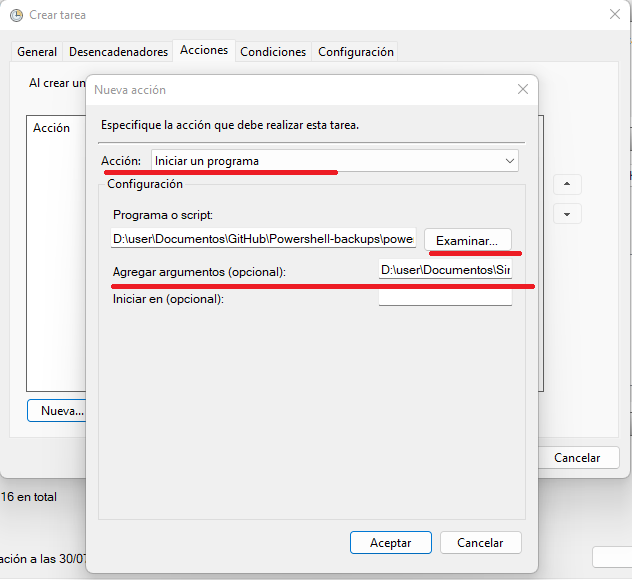
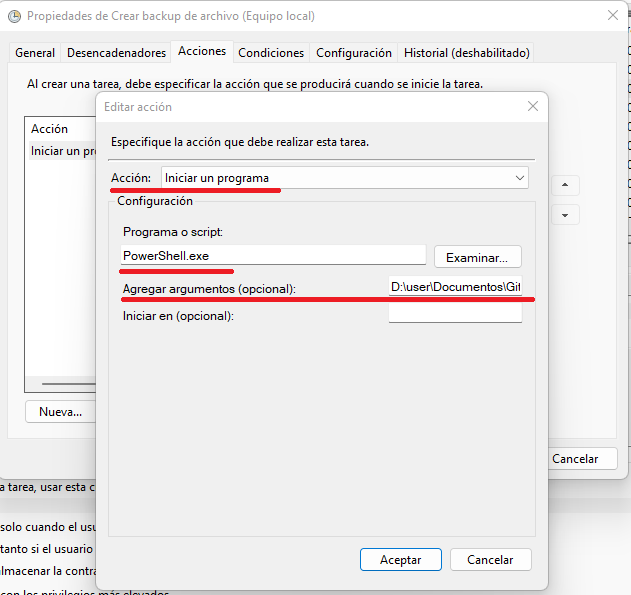
Paso 6 cambiado

Changed region(s): [[0.0, 0.0, 1.0, 1.0], [0.1204, 0.5586, 0.1506, 0.5897]]

diff --git a/README.md b/README.md
@@ -52,16 +52,25 @@ Ahora ya se puede ejecutar el script de PowerShell
     - Selecciona *Ejecutar solo cuando el usuario haya iniciado sesión*
     - Y cambia la **Configuración** para *Windows 10*
 ![](images/image6.png)
+3.1 Da click en el botón **Cambiar usuario o grupo...**
+
+        En la nueva pestaña, en el cuadro de texto escribe **SYSTEM**, despues click en *Comprobar nombres*, despues en *Aceptar*
+![](IMAGES/image6.1.png)
+Debe algo quedar así
+![](images/image6.2.png)
+
 4. Cambia a la pestaña **Desencadenadores**, click en **Nuevo**
 ![](images/image7.png)
-Llena los campos necesarios de acuerdo a tu programación, puede ser diariamente, semanal o mensual. Y puedes elegir como se ejecuta, por ejemplo cuando se inicie la sesión o según programación (*Según programación* es a demanda y puedes programarlo)  
-***NOTA:** en caso de que ya exista un desencadenador creado, puedes modificarlo o agregar nuevos*
+Llena los campos necesarios de acuerdo a tu programación, puede ser diariamente, semanal o mensual. Y puedes elegir como se ejecuta, por ejemplo cuando se inicie la sesión o según programación (*Según programación* es a demanda y puedes programarlo) 
+
+    ***NOTA:** en caso de que ya exista un desencadenador creado, puedes modificarlo o agregar nuevos*
 
 5. Cambia a la pestaña **Acciones**, click en **Nueva**
 ![](images/image9.png)
 Selecciona **Acción:** *Iniciar un programa*.
-Click en *Examinar* y busca y selecciona el script de PowerShell, en *Agregar Argumentos* agrega el path completo del archivo a crear el backup. Por ejemplo:
-*D:\user\Documentos\Sintitulo.mp4*
+En **Examinar** escribe *PowerShell.exe* y en **Agregar Argumentos** agrega el path completo del script, seguido de un espacio y el path completo del archivo a crear el backup. Por ejemplo:
+
+    *D:\user\Documentos\powershell-backups.ps1 D:\user\Documentos\Sintitulo.mp4*
 ![](images/image10.png)
 
 6. En la pestaña **Condiciones** revisar los valores y modificar dependiendo el equipo. *Configuración recomendada:*
